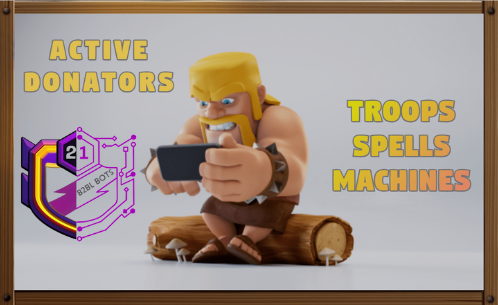
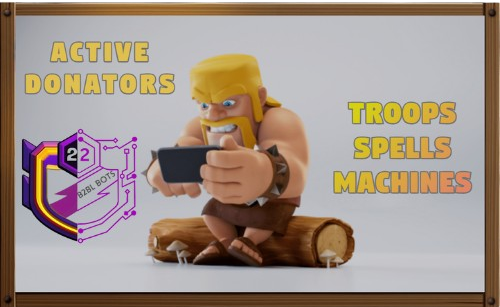
updated longImage

diff --git a/born2blegend/src/app/app.component.html b/born2blegend/src/app/app.component.html
@@ -30,7 +30,7 @@
 <!-- Long image -->
 <div class="longImage">
   
-  <img src="../assets/images/longImage8.jpg">
+  <img src="../assets/images/longImage13.jpg">
   
 </div>
 <a-scene >
@@ -41,7 +41,7 @@
 
   <!-- th14 -->
     <a-entity  position="-.4 3.1 -8" >
-      <a-image src="../assets/images/th15.png" width="14" height="12.5">
+      <a-image src="../assets/images/th16.png" width="14" height="12.5">
       </a-image>
     </a-entity>
 
@@ -70,7 +70,7 @@
     </a-entity>
 
     <!--electroFire-->
-    <a-entity  position="2.712 1.5 -4" rotation="0 -15 0" animation=" property: position;to: 2.712 1.52 -4; loop: true; dur: 2000; dir:alternate;easing:easeInOutCubic">
+    <a-entity  position="2.712 1.0 -4" rotation="0 -15 0" animation=" property: position;to: 2.712 1.0 -4; loop: true; dur: 2000; dir:alternate;easing:easeInOutCubic">
       <a-image src="../assets/images/electroFire.png" width="4" height="2.5">
       </a-image>
     </a-entity>
@@ -82,17 +82,22 @@
   </a-entity>
 
     <!-- doormat -->
-  <a-entity htmlembed  position="0 1.5 -3.8" style="border:3px solid red"  >
+  <a-entity htmlembed  position="0 0.8 -3.8" style="border:3px solid red"  >
     <a-image src="../assets/images/doormat.PNG" width="1" height="0.5" position="0 -1.3 -0.1" rotation="-25 0 0"></a-image>
+  </a-entity>
+
+    <!-- ores -->
+  <a-entity htmlembed  position="0 2 -3.8" style="border:3px solid red"  >
+    <a-image src="../assets/images/ores.png" width="1" height="0.5" position="0 -1.3 -0.1" rotation="-25 0 0"></a-image>
   </a-entity>
 
   <!-- clan logo -->
   <a-entity htmlembed position="0 2 -2.5" >
         <div style="position: relative;">
-          <img src="../assets/images/clanLogo21.png" style="width: 245px;height:135px;">
+          <img src="../assets/images/clanLogo22.png" style="width: 245px;height:135px;">
       </div>
-  </a-entity>
-
+  </a-entity> 
+  
     <!-- feature-1 Magic-->
     <a-entity  position="-3.712 1.5 -2.476" rotation="0 85 0">
       <a-image src="../assets/images/feature-1.2.png" width="4" height="2.5">
@@ -153,7 +158,7 @@
 
             <!--diggy-->
             <a-entity  position="3.712 0.5 0.576" rotation="0 -100 0">
-              <a-image src="../assets/images/diggy.png" width="2" height="1">
+              <a-image src="../assets/images/spritFox.png" width="2" height="1">
               </a-image>
             </a-entity>
 
